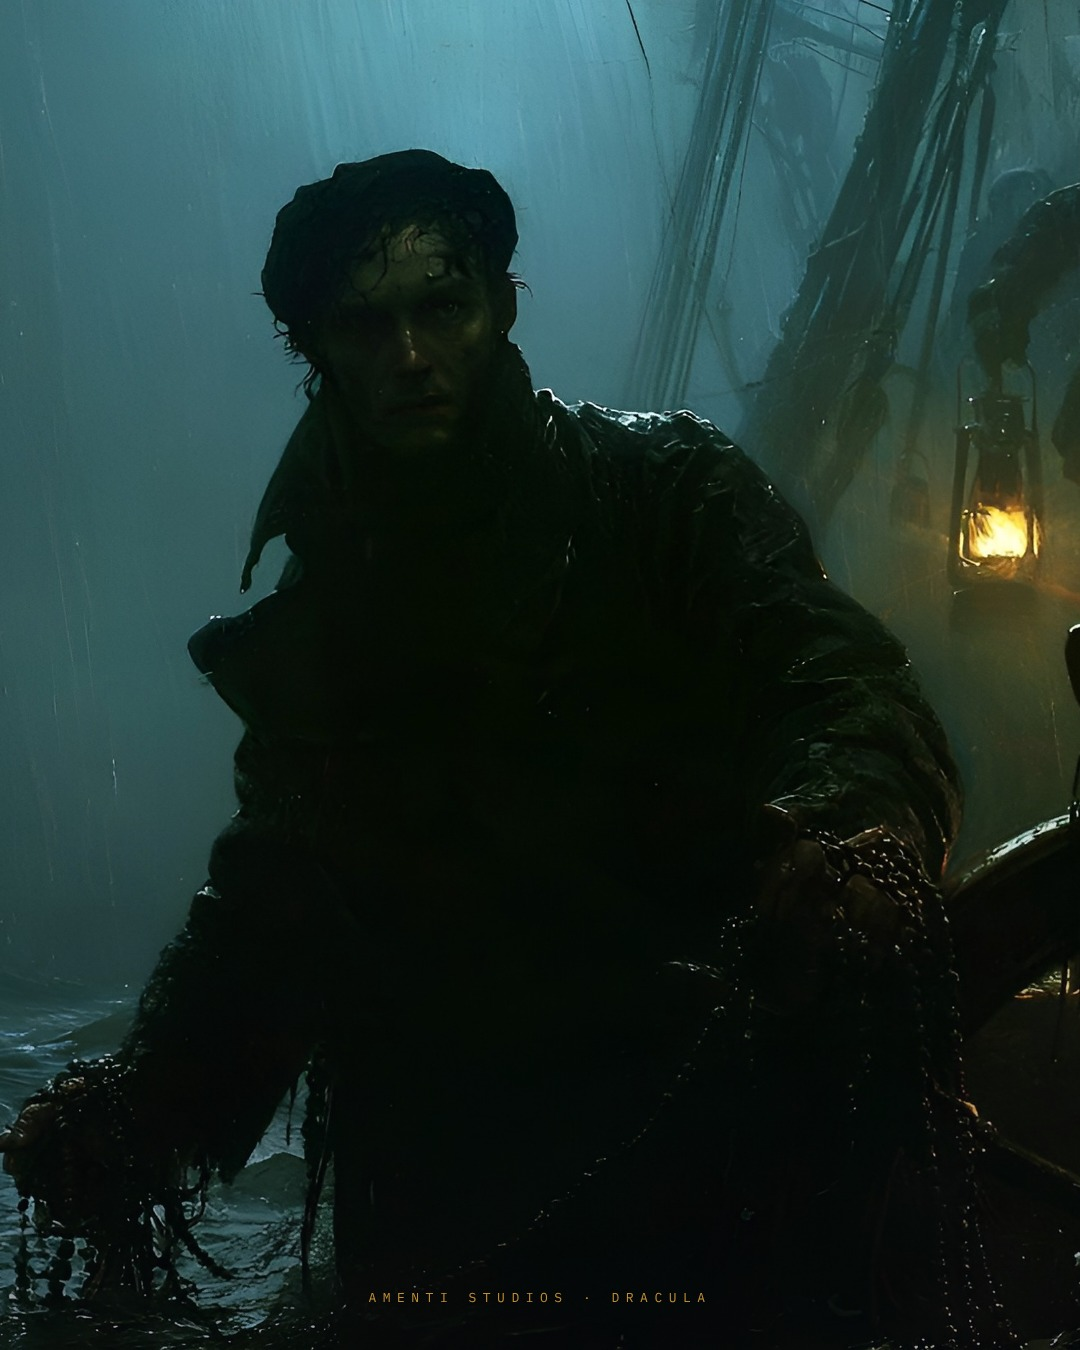
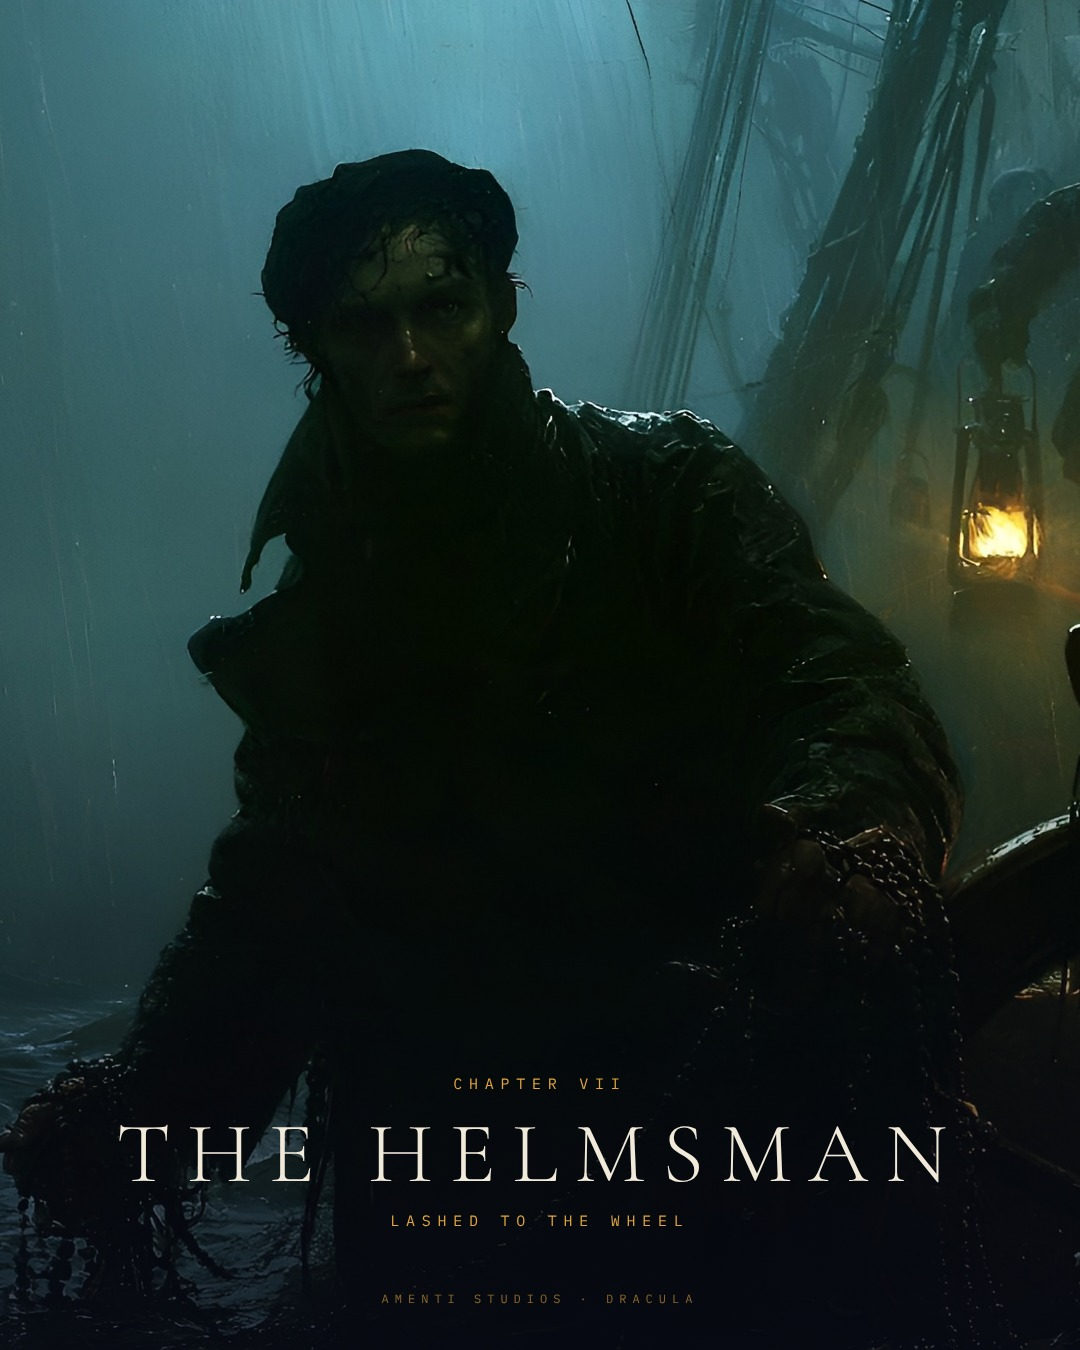
Instagram launch: titles on every painting post (Whitby, Voyage of the Demeter, …)
Claude-Session: https://claude.ai/code/session_013VwDP7mPLrP4eYudhxc4u4

diff --git a/marketing/instagram/launch/build.js b/marketing/instagram/launch/build.js
@@ -2,7 +2,7 @@ const {chromium}=require('playwright');
 const fs=require('fs');const NM='file:///tmp/claude-0/card/node_modules/@fontsource';
 const A='/tmp/claude-0/up/out2/';
 // [file, painting, focusX(0-1), overlay]
-const posts=JSON.parse(fs.readFileSync('posts.json'));
+const posts=JSON.parse(fs.readFileSync('/tmp/claude-0/ig/posts.json'));
 const css=`@font-face{font-family:G;font-style:italic;src:url(${NM}/eb-garamond/files/eb-garamond-latin-400-italic.woff2)}
 @font-face{font-family:C;src:url(${NM}/cormorant-garamond/files/cormorant-garamond-latin-300-normal.woff2)}
 @font-face{font-family:M;src:url(${NM}/ibm-plex-mono/files/ibm-plex-mono-latin-400-normal.woff2)}
@@ -13,10 +13,11 @@ const css=`@font-face{font-family:G;font-style:italic;src:url(${NM}/eb-garamond/
 .t{position:absolute;left:0;right:0;text-align:center;color:#f1e9da}
 .k{font:15px M;letter-spacing:.45em;text-transform:uppercase;color:#e0a53c}
 .big{font:300 138px/1 C;letter-spacing:.12em;margin:18px 0 14px}
+small{display:block;font-size:.42em;letter-spacing:.14em;margin-bottom:6px}.fit{white-space:nowrap;display:inline-block}.sig2{position:absolute;bottom:44px;left:0;right:0;text-align:center;font:12px M;letter-spacing:.5em;text-transform:uppercase;color:#e0a53c;opacity:.6}
 .q{font:italic 34px/1.35 G;color:#efe7d8;padding:0 110px}`;
 (async()=>{const b=await chromium.launch();const p=await b.newPage({viewport:{width:1080,height:1350}});
 for(const [out,img,fx,ov] of posts){
  const html=`<style>${css}</style><div class=bg style="background-image:url(file://${A}${img}.jpg);background-position:${fx*100}% 50%"></div>${ov?'<div class=shade></div>'+ov:'<div class=shade style="opacity:.45"></div><div class=sig>Amenti Studios · Dracula</div>'}`;
- fs.writeFileSync('/tmp/claude-0/ig/_p.html',html);await p.goto('file:///tmp/claude-0/ig/_p.html',{waitUntil:'load'});await p.evaluate(()=>document.fonts.ready);
- await p.screenshot({path:`posts/${out}.jpg`,type:'jpeg',quality:92});}
+ fs.writeFileSync('/tmp/claude-0/ig/_p.html',html);await p.goto('file:///tmp/claude-0/ig/_p.html',{waitUntil:'load'});await p.evaluate(async()=>{await document.fonts.ready;document.querySelectorAll('.fit').forEach(e=>{let f=parseFloat(getComputedStyle(e).fontSize);while(e.scrollWidth>860&&f>40){f-=4;e.style.fontSize=f+'px'}});});
+ await p.screenshot({path:`/tmp/claude-0/ig/posts/${out}.jpg`,type:'jpeg',quality:92});}
 await b.close();})();
